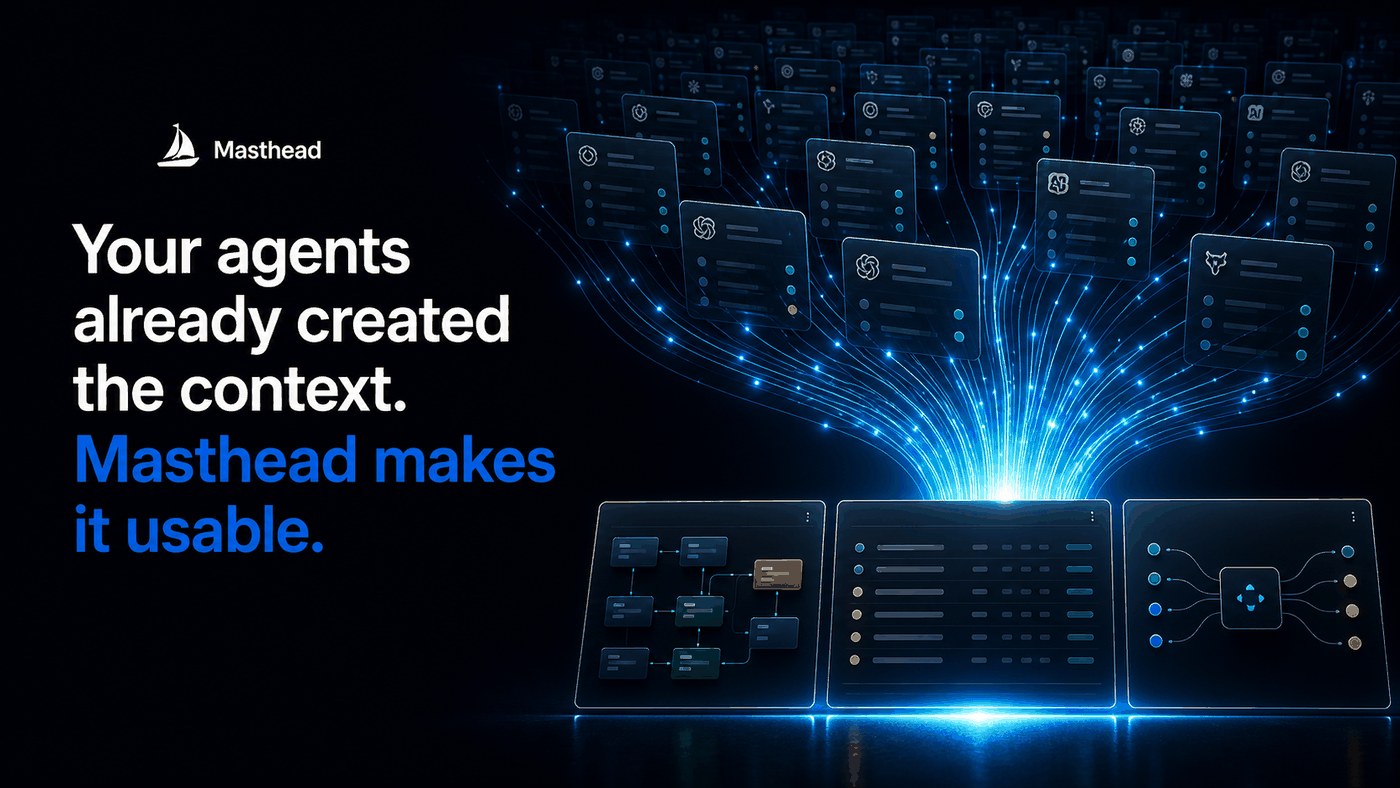
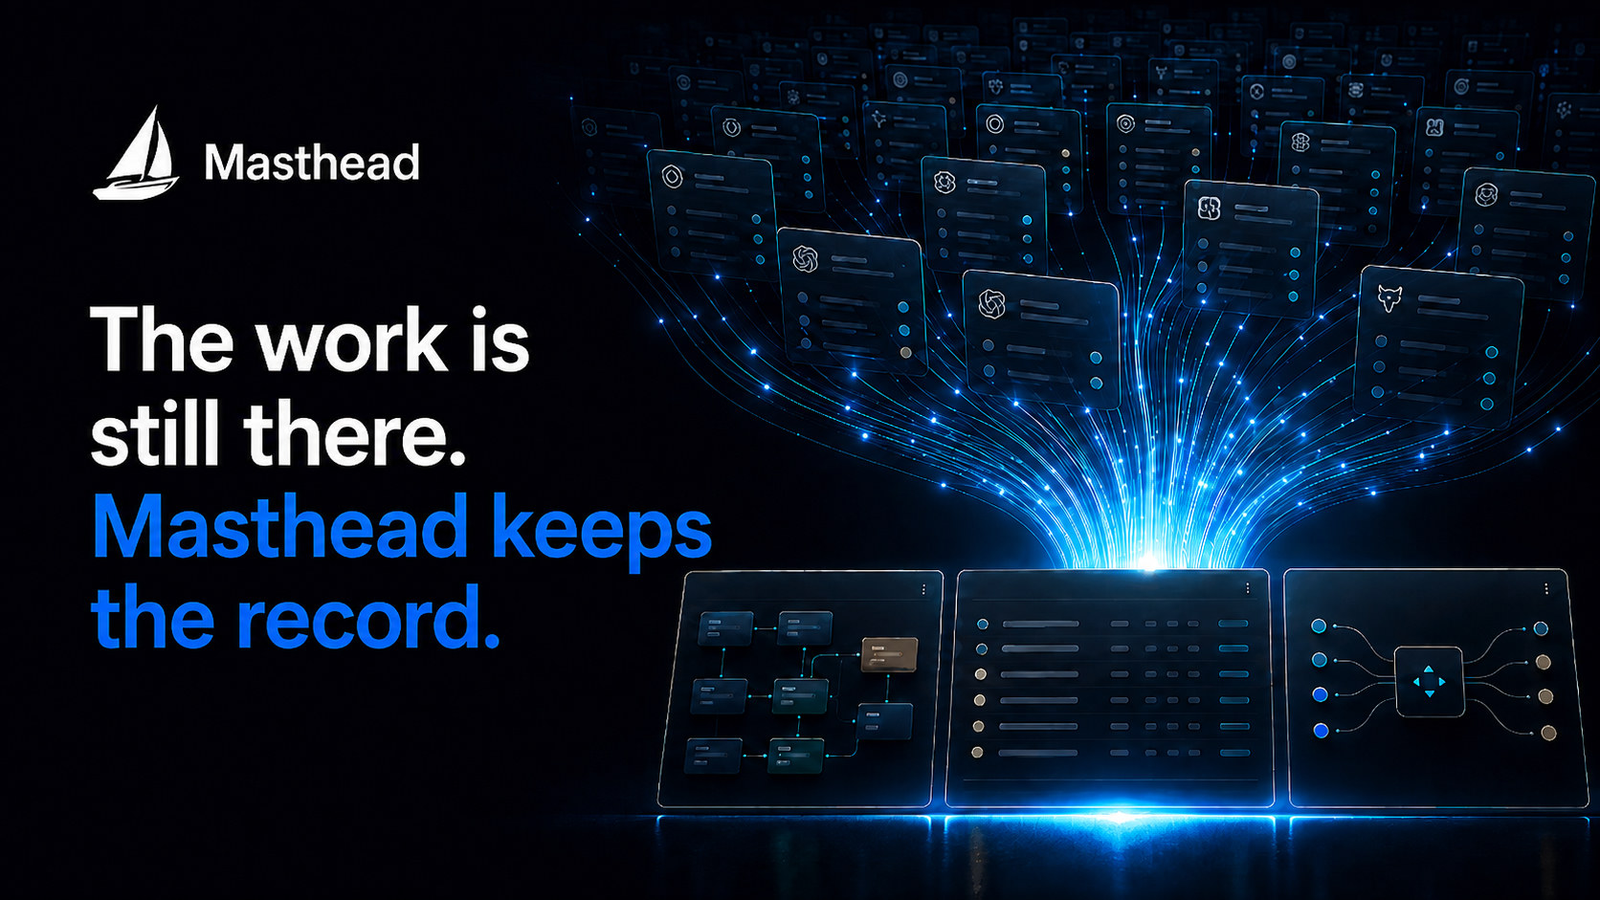
content: refresh Masthead case study image and product copy
Align animasai.co/masthead with current product language:
Sources → Workbench → Logbook → MCP → Now, Electron (not Tauri),
artifact Logbook (not Board/session library), and new marketing art.

diff --git a/masthead.html b/masthead.html
@@ -6,10 +6,10 @@
     <link rel="icon" type="image/png" href="/favicon.png">
     <link rel="icon" type="image/x-icon" href="/favicon.ico">
     <title>Masthead | Animas AI Flagship Product Build</title>
-    <meta name="description" content="Masthead is Animas AI's current flagship product build: local-first session memory for AI-agent work, searchable history, live context, and read-only MCP retrieval.">
+    <meta name="description" content="Masthead is Animas AI's flagship product: a local-first session data layer for coding agents. Capture work, publish knowledge artifacts, and retrieve them through read-only MCP.">
     <link rel="canonical" href="https://animasai.co/masthead.html">
     <meta property="og:title" content="Masthead | Animas AI Flagship Product Build">
-    <meta property="og:description" content="Masthead is Animas AI's current flagship product build: local-first session memory for AI-agent work, searchable history, live context, and read-only MCP retrieval.">
+    <meta property="og:description" content="Masthead is Animas AI's flagship product: a local-first session data layer for coding agents. Capture work, publish knowledge artifacts, and retrieve them through read-only MCP.">
     <meta property="og:url" content="https://animasai.co/masthead.html">
     <meta property="og:type" content="website">
     <meta property="og:site_name" content="Animas AI">
@@ -56,8 +56,8 @@
           "@id": "https://animasai.co/masthead.html#webpage",
           "url": "https://animasai.co/masthead.html",
           "name": "Masthead | Animas AI Flagship Product Build",
-          "description": "Masthead is Animas AI's current flagship product build: local-first session memory for AI-agent work, searchable history, live context, and read-only MCP retrieval.",
-          "dateModified": "2026-07-02",
+          "description": "Masthead is Animas AI's flagship product: a local-first session data layer for coding agents. Capture work, publish knowledge artifacts, and retrieve them through read-only MCP.",
+          "dateModified": "2026-08-07",
           "about": {
             "@id": "https://animasai.co/masthead.html#masthead-product"
           },
@@ -75,7 +75,7 @@
           "url": "https://usemasthead.com",
           "applicationCategory": "DeveloperApplication",
           "operatingSystem": "macOS, Windows, Linux",
-          "description": "Masthead is a local-first session memory layer for AI-agent work with searchable history, live context, read-only MCP retrieval, SQLite-backed storage, and a Tauri/TypeScript app surface.",
+          "description": "Masthead is a local-first session data layer for AI coding agents. It captures harness sessions into SQLite on your machine, publishes dossiers and runbooks through Workbench, and serves them via read-only MCP. Electron desktop app for macOS and Linux.",
           "creator": {
             "@id": "https://tylermayberry.dev/#tyler-mayberry"
           },
@@ -103,11 +103,11 @@
     </nav>
     <div id="mobile-menu" class="fixed inset-0 bg-white z-[60] hidden flex-col transition-all duration-300"><div class="flex justify-end p-6"><button id="close-menu-btn" class="p-2 text-slate-500 hover:text-slate-900 bg-gray-100 rounded-full" aria-label="Close menu"><span class="material-symbols-outlined">close</span></button></div><div class="flex flex-col items-center justify-center flex-1 space-y-8 text-xl font-display font-bold tracking-tight"><a href="/how-it-works.html" class="text-sm font-medium text-slate-600 hover:text-brand-600 transition-colors">How I Work</a><a href="/solutions.html" class="text-sm font-medium text-slate-600 hover:text-brand-600 transition-colors">What I Build</a><a href="/case-studies.html" class="text-sm font-medium text-slate-600 hover:text-brand-600 transition-colors">Work</a><a href="/masthead.html" class="text-sm font-medium text-brand-600 transition-colors">Masthead</a><a href="mailto:tyler@animasai.co" class="mt-8 bg-brand-600 text-white px-8 py-3 rounded-full text-lg shadow-lg">Email Tyler</a></div></div>
     <main class="pt-32 pb-24">
-      <header class="max-w-7xl mx-auto px-4 sm:px-6 lg:px-8 mb-16"><div class="grid grid-cols-1 lg:grid-cols-[0.95fr_1.05fr] gap-10 items-center"><div><div class="inline-flex items-center gap-2 px-3 py-1 rounded-full bg-amber-100 border border-amber-200 text-amber-900 text-xs font-semibold tracking-wide mb-5"><span class="material-symbols-outlined text-sm">anchor</span>CURRENT FLAGSHIP PRODUCT BUILD</div><h1 class="text-4xl md:text-6xl font-display font-extrabold tracking-tight text-slate-900 mb-6 leading-[1.05]">Masthead makes agent session history usable.</h1><p class="text-lg md:text-xl text-slate-600 leading-relaxed mb-8">Masthead turns the context coding agents already create into local session memory: searchable for people, visible while work is happening, and retrievable by future agents through read-only MCP tools.</p><div class="flex flex-col sm:flex-row gap-3"><a href="https://usemasthead.com" target="_blank" class="px-7 py-4 bg-slate-900 text-white font-bold rounded-full hover:bg-brand-600 transition-all text-center">View Masthead</a><a href="https://github.com/MayberryDT/Masthead" target="_blank" class="px-7 py-4 bg-white text-slate-700 font-bold rounded-full border border-gray-200 hover:bg-gray-50 transition-all text-center">GitHub</a><a href="mailto:tyler@animasai.co" class="px-7 py-4 bg-white text-slate-700 font-bold rounded-full border border-gray-200 hover:bg-gray-50 transition-all text-center">Email Tyler</a></div></div><div class="rounded-3xl bg-slate-950 border border-slate-800 p-4 shadow-sm"><img src="/work-assets/masthead-product-showcase.png" alt="Generated Masthead product visual showing Board, Logbook, and MCP retrieval surfaces." class="w-full rounded-2xl border border-white/10 shadow-lg"></div></div></header>
-      <section class="max-w-7xl mx-auto px-4 sm:px-6 lg:px-8 grid grid-cols-1 lg:grid-cols-[0.8fr_1.2fr] gap-10 mb-20"><div><div class="text-xs font-bold uppercase tracking-widest text-brand-600 mb-3">Product insight</div><h2 class="text-3xl md:text-5xl font-display font-bold tracking-tight text-slate-950 mb-5">Agents create valuable context. Most teams throw it away.</h2></div><div class="space-y-5 text-lg text-slate-600 leading-relaxed"><p>Every agent session contains decisions, tool calls, failed paths, implementation details, and project history. That history usually stays trapped in one harness, one transcript, or one developer's memory.</p><p>Masthead treats session history like a product data layer. It imports local sources, normalizes them into a canonical session graph, and makes the strongest context available where work happens next.</p></div></section>
-      <section class="bg-white border-y border-gray-200 py-20 mb-20"><div class="max-w-7xl mx-auto px-4 sm:px-6 lg:px-8"><div class="max-w-3xl mb-10"><div class="text-xs font-bold uppercase tracking-widest text-emerald-700 mb-3">System architecture</div><h2 class="text-3xl md:text-5xl font-display font-bold tracking-tight text-slate-950 mb-5">Local session database, human surfaces, agent access.</h2><p class="text-lg text-slate-600 leading-relaxed">The boundary is the product. Masthead keeps the source history local, gives people a quiet operator surface, and exposes selected context through read-only retrieval instead of handing agents a private log dump.</p></div><div class="grid grid-cols-1 md:grid-cols-2 lg:grid-cols-3 gap-5"><div class="bg-gray-50 border border-gray-200 rounded-2xl p-6"><h3 class="font-bold text-slate-900 mb-2">Import jobs</h3><p class="text-sm text-slate-600 leading-relaxed">Supported harness history becomes consistent session records with provenance.</p></div><div class="bg-gray-50 border border-gray-200 rounded-2xl p-6"><h3 class="font-bold text-slate-900 mb-2">SQLite session graph</h3><p class="text-sm text-slate-600 leading-relaxed">Local storage keeps session, source, policy, and retrieval data in one durable model.</p></div><div class="bg-gray-50 border border-gray-200 rounded-2xl p-6"><h3 class="font-bold text-slate-900 mb-2">Logbook and Board</h3><p class="text-sm text-slate-600 leading-relaxed">People can search prior work and see live sessions without reading raw transcripts.</p></div><div class="bg-gray-50 border border-gray-200 rounded-2xl p-6"><h3 class="font-bold text-slate-900 mb-2">Read-only MCP</h3><p class="text-sm text-slate-600 leading-relaxed">Agents can retrieve relevant context through bounded tools instead of broad filesystem access.</p></div><div class="bg-gray-50 border border-gray-200 rounded-2xl p-6"><h3 class="font-bold text-slate-900 mb-2">Desktop runtime</h3><p class="text-sm text-slate-600 leading-relaxed">Tauri, TypeScript, React, a local daemon, and app-menu delivery make it feel like a developer tool.</p></div><div class="bg-gray-50 border border-gray-200 rounded-2xl p-6"><h3 class="font-bold text-slate-900 mb-2">Verification gates</h3><p class="text-sm text-slate-600 leading-relaxed">Product-contract checks guard against drifting into generic monitoring or vague analytics.</p></div></div></div></section>
-      <section class="max-w-7xl mx-auto px-4 sm:px-6 lg:px-8 mb-20"><div class="grid grid-cols-1 lg:grid-cols-[1fr_0.9fr] gap-10 items-center"><div><div class="text-xs font-bold uppercase tracking-widest text-amber-700 mb-3">What it demonstrates</div><h2 class="text-3xl md:text-5xl font-display font-bold tracking-tight text-slate-950 mb-5">Masthead is a developer tool and a systems case study.</h2><p class="text-lg text-slate-600 leading-relaxed mb-6">For employers and clients, the signal is not only that Masthead exists. The signal is the judgment underneath it: recognize the hidden data layer inside AI work, design privacy boundaries first, and build a tool that improves future agent sessions without centralizing private work history.</p><div class="grid grid-cols-1 sm:grid-cols-2 gap-4"><div class="bg-white border border-gray-200 rounded-2xl p-5"><div class="font-bold text-slate-900 mb-1">Agent infrastructure</div><p class="text-sm text-slate-600">Context memory and retrieval as product surface.</p></div><div class="bg-white border border-gray-200 rounded-2xl p-5"><div class="font-bold text-slate-900 mb-1">Local-first trust</div><p class="text-sm text-slate-600">Sensitive session history starts on the machine.</p></div><div class="bg-white border border-gray-200 rounded-2xl p-5"><div class="font-bold text-slate-900 mb-1">Integration skill</div><p class="text-sm text-slate-600">Desktop app, daemon, SQLite, search, MCP, and website.</p></div><div class="bg-white border border-gray-200 rounded-2xl p-5"><div class="font-bold text-slate-900 mb-1">Product focus</div><p class="text-sm text-slate-600">Board, Logbook, MCP instead of a vague dashboard.</p></div></div></div><div class="rounded-3xl bg-white border border-gray-200 p-3 shadow-sm"><img src="/work-assets/masthead-product-showcase.png" alt="Generated Masthead product visual showing Board, Logbook, and MCP retrieval surfaces." class="w-full rounded-2xl object-cover"></div></div></section>
-      <section class="max-w-5xl mx-auto px-4 sm:px-6 lg:px-8 text-center"><div class="bg-slate-950 rounded-3xl p-10 md:p-14 shadow-xl"><h2 class="text-3xl md:text-5xl font-display font-bold tracking-tight text-white mb-6">Need AI work to remember what already happened?</h2><p class="text-lg text-slate-300 mb-8 max-w-2xl mx-auto">Masthead is the public proof of how I think about agentic systems: context first, clear boundaries, and useful surfaces over demo theater.</p><a href="mailto:tyler@animasai.co" class="inline-block px-8 py-4 bg-white text-slate-950 font-bold rounded-full hover:bg-brand-50 transition-all">Email Tyler</a></div></section>
+      <header class="max-w-7xl mx-auto px-4 sm:px-6 lg:px-8 mb-16"><div class="grid grid-cols-1 lg:grid-cols-[0.95fr_1.05fr] gap-10 items-center"><div><div class="inline-flex items-center gap-2 px-3 py-1 rounded-full bg-amber-100 border border-amber-200 text-amber-900 text-xs font-semibold tracking-wide mb-5"><span class="material-symbols-outlined text-sm">anchor</span>CURRENT FLAGSHIP PRODUCT BUILD</div><h1 class="text-4xl md:text-6xl font-display font-extrabold tracking-tight text-slate-900 mb-6 leading-[1.05]">The work is still there. Masthead makes it findable.</h1><p class="text-lg md:text-xl text-slate-600 leading-relaxed mb-8">Masthead is a local-first session data layer for AI coding agents. It captures work from supported harnesses, keeps it in SQLite on your machine, and turns selected sessions into published knowledge artifacts—dossiers, runbooks, ADRs—that people and agents can search and reuse.</p><div class="flex flex-col sm:flex-row gap-3"><a href="https://usemasthead.com" target="_blank" class="px-7 py-4 bg-slate-900 text-white font-bold rounded-full hover:bg-brand-600 transition-all text-center">View Masthead</a><a href="https://github.com/MayberryDT/Masthead" target="_blank" class="px-7 py-4 bg-white text-slate-700 font-bold rounded-full border border-gray-200 hover:bg-gray-50 transition-all text-center">GitHub</a><a href="mailto:tyler@animasai.co" class="px-7 py-4 bg-white text-slate-700 font-bold rounded-full border border-gray-200 hover:bg-gray-50 transition-all text-center">Email Tyler</a></div></div><div class="rounded-3xl bg-slate-950 border border-slate-800 p-4 shadow-sm"><img src="/work-assets/masthead-product-showcase.png" alt="Masthead product art: the work is still there — keeps the record." class="w-full rounded-2xl border border-white/10 shadow-lg"></div></div></header>
+      <section class="max-w-7xl mx-auto px-4 sm:px-6 lg:px-8 grid grid-cols-1 lg:grid-cols-[0.8fr_1.2fr] gap-10 mb-20"><div><div class="text-xs font-bold uppercase tracking-widest text-brand-600 mb-3">Product insight</div><h2 class="text-3xl md:text-5xl font-display font-bold tracking-tight text-slate-950 mb-5">Agents create valuable context. Most teams throw it away.</h2></div><div class="space-y-5 text-lg text-slate-600 leading-relaxed"><p>Every agent session contains decisions, tool calls, failed paths, implementation details, and project history. That history usually stays trapped in one harness, one transcript, or one developer's memory.</p><p>Masthead treats that history as a product data layer. Sources import harness sessions, Workbench turns raw work into quality-checked published artifacts, Logbook holds only what you publish, and read-only MCP hands the next agent answers with sources—not a private log dump.</p></div></section>
+      <section class="bg-white border-y border-gray-200 py-20 mb-20"><div class="max-w-7xl mx-auto px-4 sm:px-6 lg:px-8"><div class="max-w-3xl mb-10"><div class="text-xs font-bold uppercase tracking-widest text-emerald-700 mb-3">System architecture</div><h2 class="text-3xl md:text-5xl font-display font-bold tracking-tight text-slate-950 mb-5">Sources, Workbench, Logbook, MCP, Now.</h2><p class="text-lg text-slate-600 leading-relaxed">The boundary is the product. Masthead keeps capture and storage on machines you control, gives people a path from raw session to published knowledge, and exposes selected artifacts through read-only retrieval—not a monitoring tower or session library.</p></div><div class="grid grid-cols-1 md:grid-cols-2 lg:grid-cols-3 gap-5"><div class="bg-gray-50 border border-gray-200 rounded-2xl p-6"><h3 class="font-bold text-slate-900 mb-2">Sources</h3><p class="text-sm text-slate-600 leading-relaxed">Discover and enable live harness connectors so sessions land in one local record.</p></div><div class="bg-gray-50 border border-gray-200 rounded-2xl p-6"><h3 class="font-bold text-slate-900 mb-2">Local SQLite store</h3><p class="text-sm text-slate-600 leading-relaxed">Your machine holds the canonical record—sessions, sources, artifacts, and audits stay local.</p></div><div class="bg-gray-50 border border-gray-200 rounded-2xl p-6"><h3 class="font-bold text-slate-900 mb-2">Workbench and Logbook</h3><p class="text-sm text-slate-600 leading-relaxed">Workbench: raw session → quality → agent authoring → publish. Logbook: published artifacts only, not a session library.</p></div><div class="bg-gray-50 border border-gray-200 rounded-2xl p-6"><h3 class="font-bold text-slate-900 mb-2">Read-only MCP</h3><p class="text-sm text-slate-600 leading-relaxed">Other agents query published knowledge through bounded tools; they do not write your store.</p></div><div class="bg-gray-50 border border-gray-200 rounded-2xl p-6"><h3 class="font-bold text-slate-900 mb-2">Desktop runtime</h3><p class="text-sm text-slate-600 leading-relaxed">Electron, TypeScript, and React—macOS and Linux builds via GitHub Releases (Windows on the roadmap).</p></div><div class="bg-gray-50 border border-gray-200 rounded-2xl p-6"><h3 class="font-bold text-slate-900 mb-2">Now</h3><p class="text-sm text-slate-600 leading-relaxed">Shallow live presence across supported harnesses—observability as a view over collected data, not a tower.</p></div></div></div></section>
+      <section class="max-w-7xl mx-auto px-4 sm:px-6 lg:px-8 mb-20"><div class="grid grid-cols-1 lg:grid-cols-[1fr_0.9fr] gap-10 items-center"><div><div class="text-xs font-bold uppercase tracking-widest text-amber-700 mb-3">What it demonstrates</div><h2 class="text-3xl md:text-5xl font-display font-bold tracking-tight text-slate-950 mb-5">Masthead is a developer tool and a systems case study.</h2><p class="text-lg text-slate-600 leading-relaxed mb-6">For employers and clients, the signal is not only that Masthead exists. The signal is the judgment underneath it: recognize the hidden data layer inside AI work, design privacy boundaries first, and build a tool that improves future agent sessions without centralizing private work history.</p><div class="grid grid-cols-1 sm:grid-cols-2 gap-4"><div class="bg-white border border-gray-200 rounded-2xl p-5"><div class="font-bold text-slate-900 mb-1">Agent infrastructure</div><p class="text-sm text-slate-600">Published knowledge and retrieval as the product surface.</p></div><div class="bg-white border border-gray-200 rounded-2xl p-5"><div class="font-bold text-slate-900 mb-1">Local-first trust</div><p class="text-sm text-slate-600">Capture, store, and publish stay on machines you control.</p></div><div class="bg-white border border-gray-200 rounded-2xl p-5"><div class="font-bold text-slate-900 mb-1">Integration skill</div><p class="text-sm text-slate-600">Electron app, SQLite, Workbench, Logbook, MCP, and site.</p></div><div class="bg-white border border-gray-200 rounded-2xl p-5"><div class="font-bold text-slate-900 mb-1">Product focus</div><p class="text-sm text-slate-600">Sources → Workbench → Logbook → MCP—not a vague dashboard.</p></div></div></div><div class="rounded-3xl bg-white border border-gray-200 p-3 shadow-sm"><img src="/work-assets/masthead-product-showcase.png" alt="Masthead product art: the work is still there — keeps the record." class="w-full rounded-2xl object-cover"></div></div></section>
+      <section class="max-w-5xl mx-auto px-4 sm:px-6 lg:px-8 text-center"><div class="bg-slate-950 rounded-3xl p-10 md:p-14 shadow-xl"><h2 class="text-3xl md:text-5xl font-display font-bold tracking-tight text-white mb-6">Need AI work to keep the record?</h2><p class="text-lg text-slate-300 mb-8 max-w-2xl mx-auto">Masthead is the public proof of how I think about agentic systems: local-first data, clear boundaries, and published knowledge over demo theater.</p><a href="mailto:tyler@animasai.co" class="inline-block px-8 py-4 bg-white text-slate-950 font-bold rounded-full hover:bg-brand-50 transition-all">Email Tyler</a></div></section>
     </main>
     <footer class="bg-slate-950 py-16 text-slate-400"><div class="max-w-7xl mx-auto px-4 sm:px-6 lg:px-8"><div class="grid grid-cols-1 md:grid-cols-3 gap-12"><div><a href="/" class="flex items-center gap-3 mb-4"><img src="/logo-mark-v2-lg.webp" alt="Animas AI Logo" class="w-8 h-8 rounded shadow-sm"><span class="font-display font-bold text-xl tracking-tight text-white">ANIMAS AI.</span></a><p class="text-sm max-w-sm mb-6">Practical AI systems, internal tools, and automation for messy real-world operations.</p><div class="text-xs">© 2026 ANIMAS AI. ALL RIGHTS RESERVED.</div></div><div class="md:hidden border-t border-slate-800 my-2"></div><div><h4 class="text-white font-semibold mb-6">Company</h4><ul class="space-y-4 text-sm"><li><a href="/how-it-works.html" class="hover:text-white transition-colors">How I Work</a></li><li><a href="/solutions.html" class="hover:text-white transition-colors">What I Build</a></li><li><a href="/case-studies.html" class="hover:text-white transition-colors">Work</a></li><li><a href="/masthead.html" class="hover:text-white transition-colors">Masthead</a></li><li><a href="/blog/" class="hover:text-white transition-colors">Writing</a></li><li><a href="/tools.html" class="hover:text-white transition-colors">Workflow Experiments</a></li></ul></div><div><h4 class="text-white font-semibold mb-6">Contact</h4><ul class="space-y-4 text-sm"><li><a href="mailto:tyler@animasai.co" class="hover:text-white transition-colors">tyler@animasai.co</a></li><li><a href="https://tylermayberry.dev" target="_blank" class="hover:text-white transition-colors">Portfolio</a></li><li><a href="https://github.com/MayberryDT" target="_blank" class="hover:text-white transition-colors">GitHub</a></li><li><a href="https://www.linkedin.com/in/mayberrydt/" target="_blank" class="hover:text-white transition-colors">LinkedIn</a></li></ul></div></div></div></footer>
     <script>document.addEventListener('DOMContentLoaded', () => { const menuBtn = document.getElementById('mobile-menu-btn'); const closeBtn = document.getElementById('close-menu-btn'); const mobileMenu = document.getElementById('mobile-menu'); if (menuBtn && closeBtn && mobileMenu) { menuBtn.addEventListener('click', () => { mobileMenu.classList.remove('hidden'); mobileMenu.classList.add('flex'); document.body.style.overflow = 'hidden'; }); closeBtn.addEventListener('click', () => { mobileMenu.classList.add('hidden'); mobileMenu.classList.remove('flex'); document.body.style.overflow = ''; }); } });</script>
